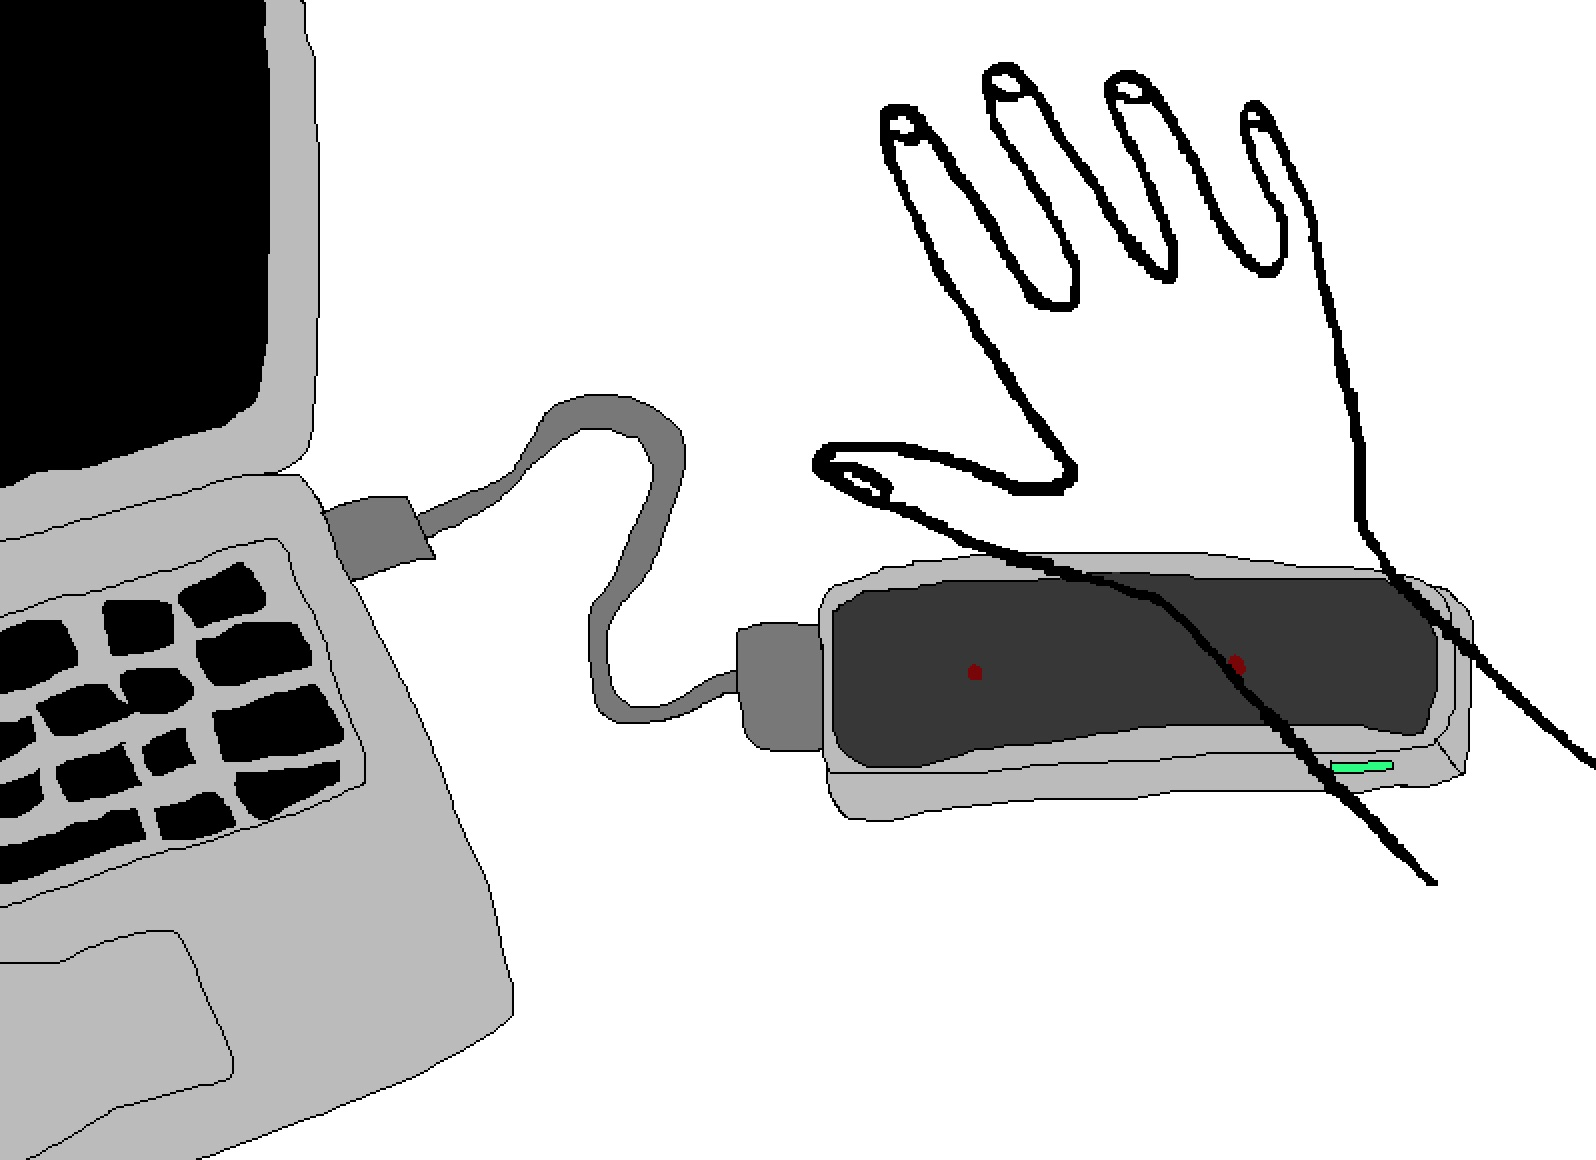
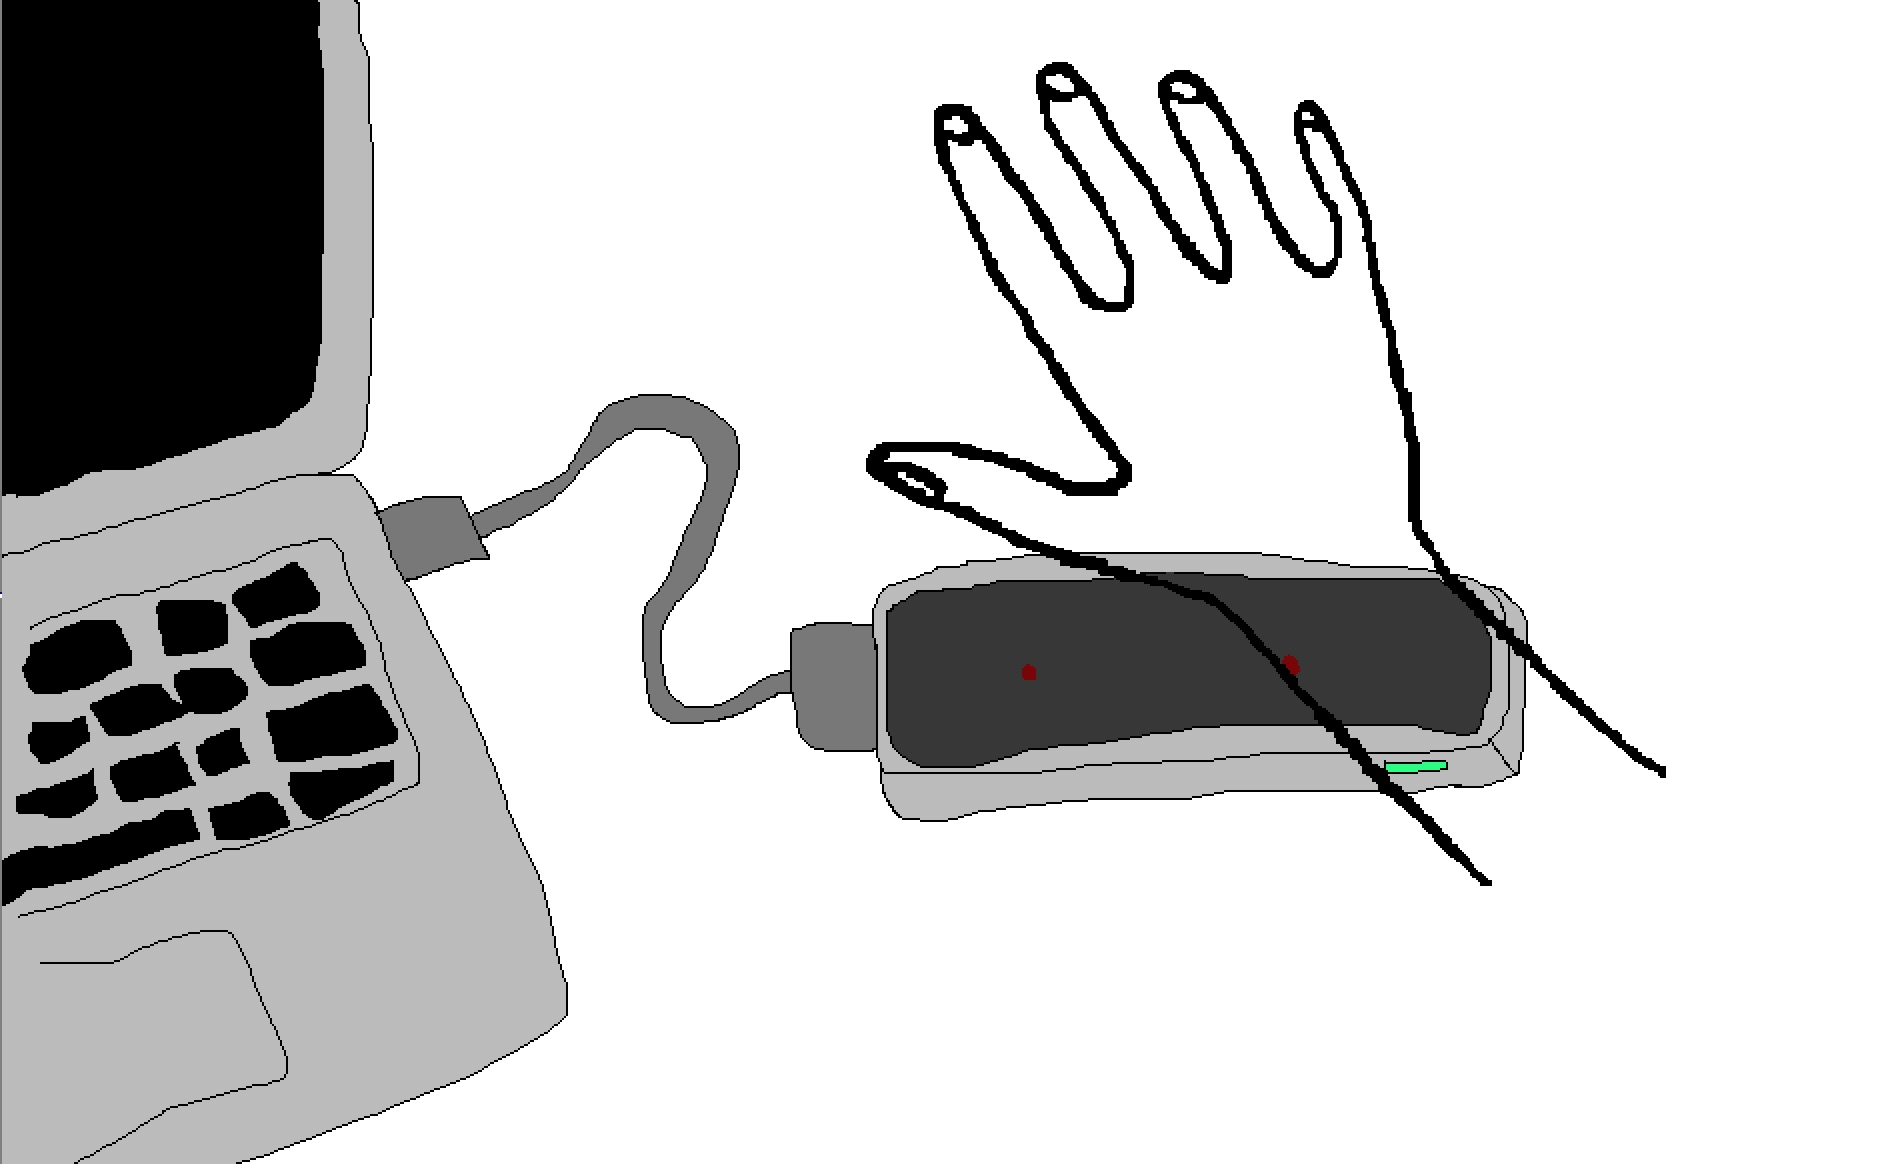
Del07 - Step 42 - mid refactoring

diff --git a/PredictGestures.js b/PredictGestures.js
@@ -154,10 +154,15 @@ function GotResults(err,result){
   //predictedClassLabels.set(testingSampleIndex,parseInt(result.label));
 }
 
+function meanPosition(dim){
+  let dimValues = oneFrameOfData.slice([],[],[dim,6,3]);
+  let currentMean = dimValues.mean();
+  return currentMean
+}
+
 //warning: extreme code reuse, very awesome
 function centerData(dim){
-  dimValues = oneFrameOfData.slice([],[],[dim,6,3])
-  currentMean = dimValues.mean()
+  currentMean = meanPosition(dim);
   //console.log(dim.toString(),":",currentMean)
   dimShift = 0.5-currentMean
   //console.log(dimShift)
@@ -257,7 +262,7 @@ function handleFrame(frame){
 }
 
 function DrawImageToHelpUserPutTheirHandOverTheDevice(){
-  image(img, 0, 0)// [width], [height])
+  image(img, 0, 0, window.innerWidth/2, window.innerHeight/2)
 }
 
 function TrainKNNIfNotDoneYet(){
@@ -275,12 +280,29 @@ function HandleState1(frame){
   handleFrame(frame);
 }
 
+function HandleState2(frame){
+  handleFrame(frame);
+}
+
+function HandIsTooFarToTheLeft()
+
+function HandIsUncentered(){
+
+}
+
 function DetermineState(frame){
-  programState = frame.hands.length;
-  if(programState>1){
-    programState = 1;
+  if(!frame.hands.length){
+    programState = 0;
   }
-  console.log(programState)
+  else if(true){
+     programState = 1;
+  }
+  else {
+    programState = 2;
+  }
+
+
+  //console.log(programState)
 }
 
 Leap.loop(controllerOptions, function(frame){
@@ -292,6 +314,9 @@ Leap.loop(controllerOptions, function(frame){
   }
   else if (programState==1) {
     HandleState1(frame);
+  }
+  else if (programState == 2){
+    HandleState2(frame);
   }
 
 

diff --git a/prepareToDraw.js b/prepareToDraw.js
@@ -1,5 +1,12 @@
 var img
 function setup() {
   createCanvas(window.innerWidth,window.innerHeight);
-  img = loadImage("https://i.imgur.com/A4AeJFT.jpeg");
+  img = loadImage("https://i.imgur.com/6zk6b5e.jpeg");
+
+  imgTooClose = loadImage("https://i.imgur.com/xyuhgBm.jpeg");
+  imgTooHigh = loadImage("https://i.imgur.com/wEk5Zke.jpg");
+  imgTooRight = loadImage("https://i.imgur.com/atBbOq7.jpg");
+  imgTooLeft = loadImage("https://i.imgur.com/BJausMK.jpg");
+  imgtooFar = loadImage("https://i.imgur.com/Xt3R2Jc.jpg");
+  imgTooLow = loadImage("https://i.imgur.com/Rrzmyjp.jpg")
 }
